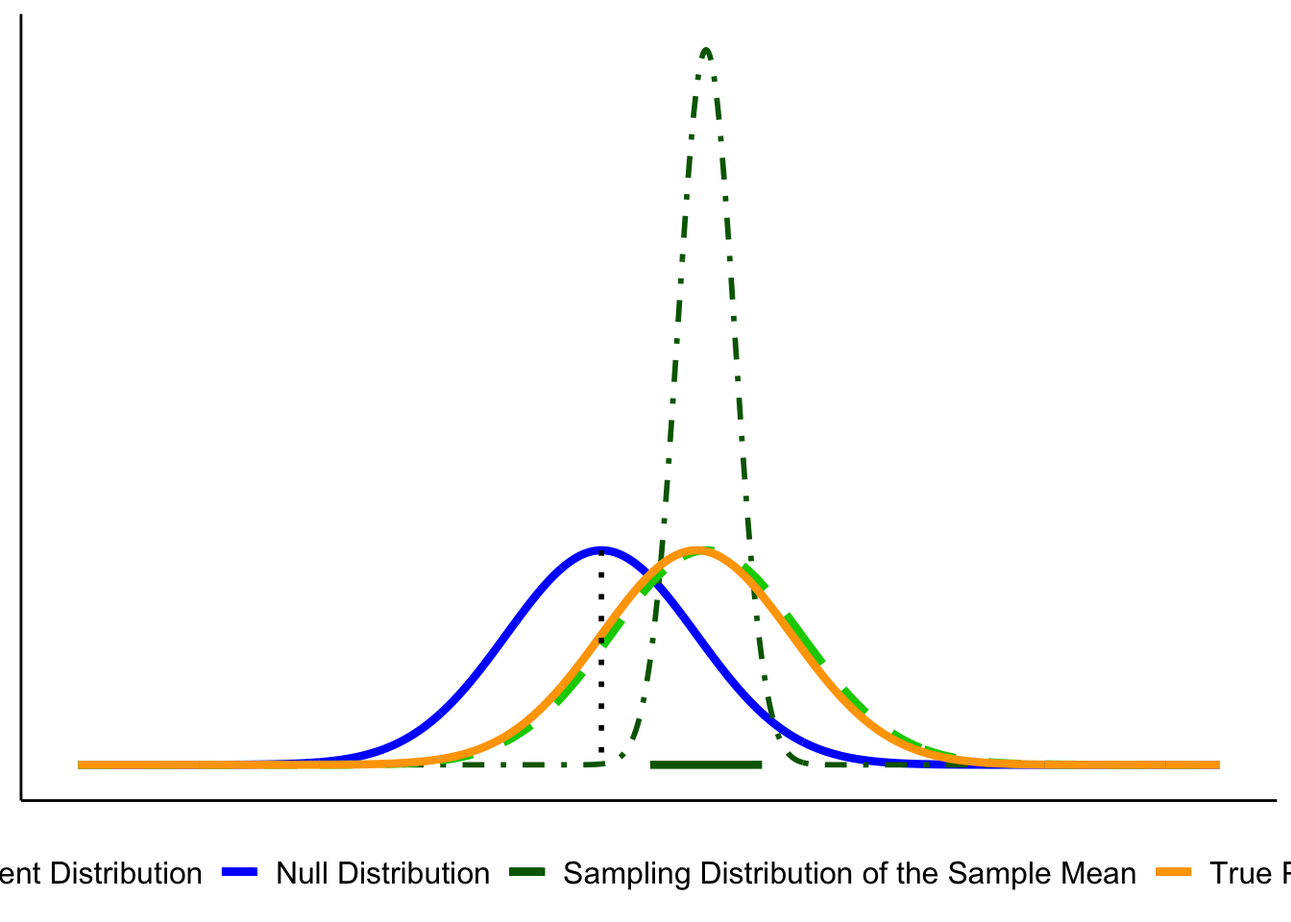
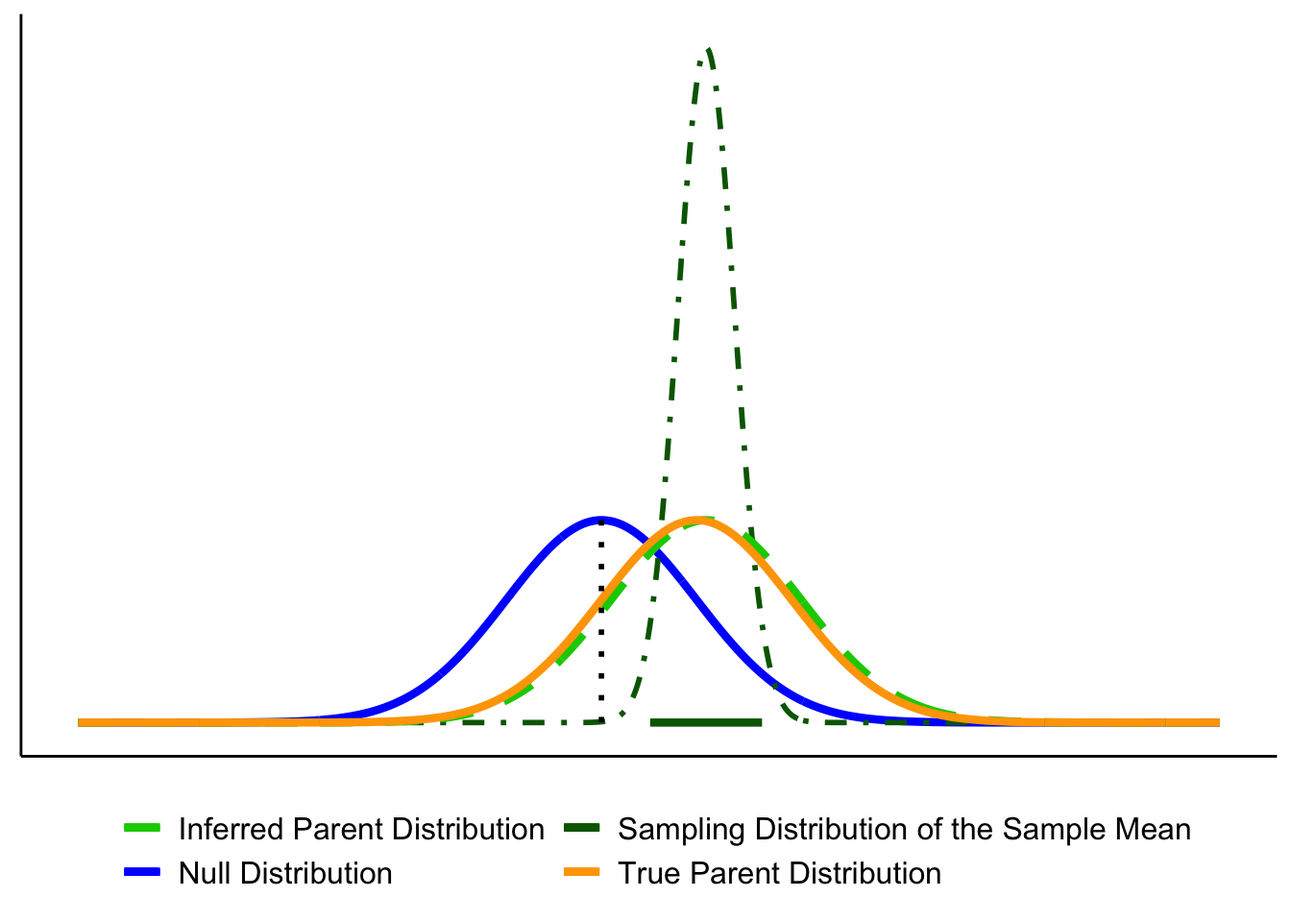
Non-error cases now updated

diff --git a/docs/05.5-Hypothesis_Testing.html b/docs/05.5-Hypothesis_Testing.html
@@ -286,7 +286,7 @@ ul.task-list li input[type="checkbox"] {
     <div>
     <div class="quarto-title-meta-heading">Modified</div>
     <div class="quarto-title-meta-contents">
-      <p class="date-modified">October 6, 2023</p>
+      <p class="date-modified">October 9, 2023</p>
     </div>
   </div>
     
@@ -466,7 +466,7 @@ ul.task-list li input[type="checkbox"] {
 </div>
 <p>In a "perfect" world in which the null hypothesis is true, the sample's parent distribution (solid, orange) is exactly the same parent distribution described by the null hypothesis (solid, blue).</p>
 <hr>
-<div class="cell" data-hash="cache/fig-5-5.perfectly_representative_sample_d28861a8295dd788d010227b9679ff42">
+<div class="cell" data-hash="cache/fig-5-5.perfectly_representative_sample_87e749bb8d701ea8d0d837668157e4f5">
 <div class="cell-output-display">
 <div id="fig-5-5.perfectly_representative_sample" class="quarto-figure quarto-figure-center anchored">
 <figure class="figure">
@@ -513,25 +513,71 @@ ul.task-list li input[type="checkbox"] {
 </div>
 </div>
 </div>
-<p>In another imperfect and inconvenient world, the sample (dashed lines) really is drawn from the alternative distribution (the sample’s true parent distribution; orange), but is unrepresentative of its parent and similar to the null (solid darkgreen line). The confidence interval (in the 2-tailed case) of the sample “catches” the mean of the null hypothesis although it is far from the mean of the true parent of the sample. A hypothesis test will find no significant difference between the sample mean and the mean of the null hypothesis. <strong>This is a type II error.</strong></p>
+<p>In another imperfect and inconvenient world, the sample (dashed dark green lines) really is drawn from the alternative distribution (the sample’s true parent distribution; orange), but is unrepresentative of its parent and similar to the null (solid blue line). The confidence interval (in the 2-tailed case) of the sample “catches” the mean of the null hypothesis although it is far from the mean of the true parent of the sample. A hypothesis test will find no significant difference between the sample mean and the mean of the null hypothesis. <strong>This is a type II error.</strong></p>
 <hr>
 </section>
 </section>
 <section id="graphical-review-of-test-outcomes-that-are-not-in-error" class="level2" data-number="6.3">
 <h2 data-number="6.3" class="anchored" data-anchor-id="graphical-review-of-test-outcomes-that-are-not-in-error"><span class="header-section-number">6.3</span> Graphical Review of Test Outcomes that are Not in Error</h2>
 <p>As you review hypothesis testing, it’s essential to remember that we don’t <em>accept</em> the null hypothesis. The possibility of a Type I error means our conclusion might be flawed. Instead of accepting the null hypothesis, we <em>fail to reject</em> H<sub>0</sub>. The scarcity of data with small sample sizes can lead to significant differences between the sample mean and the null mean (μ_0). While it’s tempting to gather more data to be more certain, in the meantime, the best we can do is fail to reject H<sub>0</sub>.</p>
-<p>In the figures below, darkgreen lines represent the null parent distribution (defined by the null mean and the sample’s standard deviation). The gray lines denote the apparent parent distribution of our sample:</p>
+<p>In the figures below, blue lines represent the null parent distribution (defined by the null mean and the sample’s standard deviation). The green solid lines denote the apparent parent distribution of our sample:</p>
 <ul>
-<li><p><strong>Solid gray line</strong>: Represents the distribution described by our sample mean and standard deviation.</p></li>
-<li><p><strong>Dashed gray line</strong>: Shows the sampling distribution of the sample mean, described by our sample mean and the standard error (SE).</p></li>
+<li><p><strong>Solid green line</strong>: Represents the distribution described by our sample mean and standard deviation.</p></li>
+<li><p>*<strong>Dashed dark green line</strong>: Shows the sampling distribution of the sample mean, described by our sample mean and the standard error (SE).</p></li>
 </ul>
 <section id="graphical-descriptions" class="level3" data-number="6.3.1">
 <h3 data-number="6.3.1" class="anchored" data-anchor-id="graphical-descriptions"><span class="header-section-number">6.3.1</span> Graphical Descriptions:</h3>
+<div class="cell" data-hash="cache/fig-5-5.fail_to_reject_1_7b3511bddfcfa8d4042300ec772a3380">
+<div class="cell-output-display">
+<div id="fig-5-5.fail_to_reject_1" class="quarto-figure quarto-figure-center anchored">
+<figure class="figure">
+<p><img src="05.5-Hypothesis_Testing_files/figure-html/fig-5-5.fail_to_reject_1-1.png" class="img-fluid figure-img" style="width:100.0%"></p>
+<figcaption class="figure-caption">Figure&nbsp;6.9: Ha:μ &lt; X</figcaption>
+</figure>
+</div>
+</div>
+</div>
 <ol type="1">
-<li><p><strong>Fail to Reject the Null Hypothesis - Sample Mean Supports the Null Hypothesis</strong>: The means have a significant distance between them but not in our direction of interest. For a one-tailed test, only data on one side of the rejection region can support the null hypothesis. Question to ponder: If we gather more data and obtain the same sample mean, could our conclusion change?</p></li>
-<li><p><strong>Fail to Reject the Null Hypothesis</strong>: The sample mean leans towards the alternate hypothesis, residing on the suitable side of the rejection region. However, the sample size could be too small. The sample mean’s proximity, just about 1SE from the null mean, makes it too close to be statistically significant. Hypothetical situation: With more data and the same sample mean, could our conclusion differ?</p></li>
-<li><p><strong>Reject the Null Hypothesis</strong>: The sample mean is on the right side of the rejection region. It’s significantly distant from the null mean, over 3 SE, which is typically considered significant for most standard values of α.</p></li>
-<li><p><strong>Reject the Null Hypothesis (Two-Tailed Test)</strong>: This situation mirrors the previous example, but the test is two-tailed.</p></li>
+<li><strong>Fail to Reject the Null Hypothesis - Sample Mean Supports the Null Hypothesis</strong>: The means have a significant distance between them but <strong>not in our direction of interest</strong>. For a one-tailed test, only data on one side of the rejection region can support the null hypothesis. Question to ponder: If we gather more data and obtain the same sample mean, could our conclusion change?</li>
+</ol>
+<div class="cell" data-hash="cache/fig-5-5.fail_to_reject_2_9a014aafabcc79bc24104a7ee2b8086c">
+<div class="cell-output-display">
+<div id="fig-5-5.fail_to_reject_2" class="quarto-figure quarto-figure-center anchored">
+<figure class="figure">
+<p><img src="05.5-Hypothesis_Testing_files/figure-html/fig-5-5.fail_to_reject_2-1.png" class="img-fluid figure-img" style="width:100.0%"></p>
+<figcaption class="figure-caption">Figure&nbsp;6.10: Ha:μ &lt; X</figcaption>
+</figure>
+</div>
+</div>
+</div>
+<ol start="2" type="1">
+<li><strong>Fail to Reject the Null Hypothesis</strong>: The sample mean leans towards the alternate hypothesis, residing on the suitable side of the rejection region. However, the sample size could be too small. The sample mean’s proximity, just about 1SE from the null mean, makes it too close to be statistically significant. Hypothetical situation: With more data and the same sample mean, could our conclusion differ?</li>
+</ol>
+<div class="cell" data-hash="cache/fig-5-5.reject_1_f147375c20a401d6ab4e27d13f84a48a">
+<div class="cell-output-display">
+<div id="fig-5-5.reject_1" class="quarto-figure quarto-figure-center anchored">
+<figure class="figure">
+<p><img src="05.5-Hypothesis_Testing_files/figure-html/fig-5-5.reject_1-1.png" class="img-fluid figure-img" style="width:100.0%"></p>
+<figcaption class="figure-caption">Figure&nbsp;6.11: Ha:μ &lt; X</figcaption>
+</figure>
+</div>
+</div>
+</div>
+<ol start="3" type="1">
+<li><strong>Reject the Null Hypothesis</strong>: The sample mean is on the right side of the rejection region. It’s significantly distant from the null mean, over 3 SE, which is typically considered significant for most standard values of α.</li>
+</ol>
+<div class="cell" data-hash="cache/fig-5-5.reject_2_two_tailed_092a618d8628cbca5b2f6e2001f0dcd8">
+<div class="cell-output-display">
+<div id="fig-5-5.reject_2_two_tailed" class="quarto-figure quarto-figure-center anchored">
+<figure class="figure">
+<p><img src="05.5-Hypothesis_Testing_files/figure-html/fig-5-5.reject_2_two_tailed-1.png" class="img-fluid figure-img" style="width:100.0%"></p>
+<figcaption class="figure-caption">Figure&nbsp;6.12: Ha:μ ≠ X</figcaption>
+</figure>
+</div>
+</div>
+</div>
+<ol start="4" type="1">
+<li><strong>Reject the Null Hypothesis (Two-Tailed Test)</strong>: Reject the null hypothesis for the same reasons as the previous example. This case is two-tailed, but nothing else has changed.</li>
 </ol>
 <hr>
 </section>
@@ -567,13 +613,13 @@ ul.task-list li input[type="checkbox"] {
 </section>
 <section id="cohens-d" class="level3" data-number="6.5.3">
 <h3 data-number="6.5.3" class="anchored" data-anchor-id="cohens-d"><span class="header-section-number">6.5.3</span> Cohen’s d</h3>
-<p>Let’s look a few distributions to firm up some ideas about effect-size. <a href="#fig-5.5effectdists">Figure&nbsp;<span>6.9</span></a> has four panels. The first panel (0) represents the null distribution of no differences. This is the idea that your manipulation (A vs.&nbsp;B) doesn’t do anything at all, as a result when you measure scores in conditions A and B, you are effectively sampling scores from the very same overall distribution. The panel shows the distribution as green for condition B, but the red one for condition A is identical and drawn underneath (it’s invisible). There is 0 difference between these distributions, so it represent a null effect.</p>
+<p>Let’s look a few distributions to firm up some ideas about effect-size. <a href="#fig-5.5effectdists">Figure&nbsp;<span>6.13</span></a> has four panels. The first panel (0) represents the null distribution of no differences. This is the idea that your manipulation (A vs.&nbsp;B) doesn’t do anything at all, as a result when you measure scores in conditions A and B, you are effectively sampling scores from the very same overall distribution. The panel shows the distribution as green for condition B, but the red one for condition A is identical and drawn underneath (it’s invisible). There is 0 difference between these distributions, so it represent a null effect.</p>
 <div class="cell" data-hash="cache/fig-5.5effectdists_c9b7a83c71b734326d46abf2c3867984">
 <div class="cell-output-display">
 <div id="fig-5.5effectdists" class="quarto-figure quarto-figure-center anchored">
 <figure class="figure">
 <p><img src="05.5-Hypothesis_Testing_files/figure-html/fig-5.5effectdists-1.png" class="img-fluid figure-img" style="width:100.0%"></p>
-<figcaption class="figure-caption">Figure&nbsp;6.9: Each panel shows hypothetical distributions for two conditions. As the effect-size increases, the difference between the distributions become larger.</figcaption>
+<figcaption class="figure-caption">Figure&nbsp;6.13: Each panel shows hypothetical distributions for two conditions. As the effect-size increases, the difference between the distributions become larger.</figcaption>
 </figure>
 </div>
 </div>
@@ -585,7 +631,7 @@ ul.task-list li input[type="checkbox"] {
 <div id="fig-5.5effectdistsB" class="quarto-figure quarto-figure-center anchored">
 <figure class="figure">
 <p><img src="05.5-Hypothesis_Testing_files/figure-html/fig-5.5effectdistsB-1.png" class="img-fluid figure-img" style="width:100.0%"></p>
-<figcaption class="figure-caption">Figure&nbsp;6.10: Each panel shows hypothetical distributions for two conditions. As the effect-size increases, the difference between the distributions become larger.</figcaption>
+<figcaption class="figure-caption">Figure&nbsp;6.14: Each panel shows hypothetical distributions for two conditions. As the effect-size increases, the difference between the distributions become larger.</figcaption>
 </figure>
 </div>
 </div>
@@ -631,23 +677,23 @@ ul.task-list li input[type="checkbox"] {
 </ol>
 <p>To see this in practice let’s do a simulation. We will do a t-test on a between-groups design 10 subjects in each group. Group A will be a control group with scores sampled from a normal distribution with mean of 10, and standard deviation of 5. Group B will be a treatment group, we will say the treatment has an effect-size of Cohen’s <span class="math inline">\(d\)</span> = .5, that’s a standard deviation shift of .5, so the scores with come from a normal distribution with mean =12.5 and standard deivation of 5. Remember 1 standard deviation here is 5, so half of a standard deviation is 2.5.</p>
 <p>The following R script runs this simulated experiment 1000 times. We set the alpha criterion to .05, this means we will reject the null whenever the <span class="math inline">\(p\)</span>-value is less than .05. With this specific design, how many times out of of 1000 do we reject the null, and accept the alternative hypothesis?</p>
-<div class="cell" data-hash="cache/unnamed-chunk-16_3d09cd857d5b7bbef6b6b2f6985bc85f">
-<pre><code>#&gt; [1] 157</code></pre>
+<div class="cell" data-hash="cache/unnamed-chunk-18_e02a975442135e82fb026553c488f0a2">
+<pre><code>#&gt; [1] 190</code></pre>
 </div>
-<p>The answer is that we reject the null, and accept the alternative 157 times out of 1000. In other words our experiment succesfully accepts the alternative hypothesis 15.7 percent of the time, this is known as the power of the study. Power is the probability that a design will succesfully detect an effect of a specific size.</p>
+<p>The answer is that we reject the null, and accept the alternative 190 times out of 1000. In other words our experiment succesfully accepts the alternative hypothesis 19 percent of the time, this is known as the power of the study. Power is the probability that a design will succesfully detect an effect of a specific size.</p>
 <p>Importantly, power is completely abstract idea that is completely determined by many assumptions including N, effect-size, and alpha. As a result, it is best not to think of power as a single number, but instead as a family of numbers.</p>
 <p>For example, power is different when we change N. If we increase N, our samples will more precisely estimate the true distributions that they came from. Increasing N reduces sampling error, and shrinks the range of differences that can be produced by chance. Lets’ increase our N in this simulation from 10 to 20 in each group and see what happens.</p>
-<div class="cell" data-hash="cache/unnamed-chunk-17_299094f71c8f056e7ffcdf0b088ebe64">
-<pre><code>#&gt; [1] 306</code></pre>
+<div class="cell" data-hash="cache/unnamed-chunk-19_4009788692fef6d6f3b405a19309a5c1">
+<pre><code>#&gt; [1] 337</code></pre>
 </div>
-<p>Now the number of significant experiments i 306 out of 1000, or a power of 30.6 percent. That’s roughly doubled from before. We have made the design more sensitive to the effect by increasing N.</p>
+<p>Now the number of significant experiments i 337 out of 1000, or a power of 33.7 percent. That’s roughly doubled from before. We have made the design more sensitive to the effect by increasing N.</p>
 <p>We can change the power of the design by changing the alpha-value, which tells us how much evidence we need to reject the null. For example, if we set the alpha criterion to 0.01, then we will be more conservative, only rejecting the null when chance can produce the observed difference 1% of the time. In our example, this will have the effect of reducing power. Let’s keep N at 20, but reduce the alpha to 0.01 and see what happens:</p>
-<div class="cell" data-hash="cache/unnamed-chunk-18_680d38d569ee49eedece227007d0b9c6">
-<pre><code>#&gt; [1] 148</code></pre>
+<div class="cell" data-hash="cache/unnamed-chunk-20_c3026badee06b9adb1aaba7a94d20b51">
+<pre><code>#&gt; [1] 137</code></pre>
 </div>
-<p>Now only 148 out of 1000 experiments are significant, that’s 14.8 power.</p>
+<p>Now only 137 out of 1000 experiments are significant, that’s 13.7 power.</p>
 <p>Finally, the power of the design depends on the actual size of the effect caused by the manipulation. In our example, we hypothesized that the effect caused a shift of .5 standard deviations. What if the effect causes a bigger shift? Say, a shift of 2 standard deviations. Let’s keep N= 20, and alpha &lt; .01, but change the effect-size to two standard deviations. When the effect in the real-world is bigger, it should be easier to measure, so our power will increase.</p>
-<div class="cell" data-hash="cache/unnamed-chunk-19_25005706eb8e3f1b314cb403d74f6e6d">
+<div class="cell" data-hash="cache/unnamed-chunk-21_a03c5b03e7dd4529d0878671f8cb3de6">
 <pre><code>#&gt; [1] 1000</code></pre>
 </div>
 <p>Neat, if the effect-size is actually huge (2 standard deviation shift), then we have power 100 percent to detect the true effect.</p>
@@ -655,25 +701,25 @@ ul.task-list li input[type="checkbox"] {
 <section id="power-curves" class="level3" data-number="6.6.3">
 <h3 data-number="6.6.3" class="anchored" data-anchor-id="power-curves"><span class="header-section-number">6.6.3</span> Power curves</h3>
 <p>We mentioned that it is best to think of power as a family of numbers, rather than as a single number. To elaborate on this consider the power curve below. This is the power curve for a specific design: a between groups experiments with two levels, that uses an independent samples t-test to test whether an observed difference is due to chance. Critically, N is set to 10 in each group, and alpha is set to .05</p>
-<p>In <a href="#fig-5.5powercurve">Figure&nbsp;<span>6.11</span></a> power (as a proportion, not a percentage) is plotted on the y-axis, and effect-size (Cohen’s d) in standard deviation units is plotted on the x-axis.</p>
+<p>In <a href="#fig-5.5powercurve">Figure&nbsp;<span>6.15</span></a> power (as a proportion, not a percentage) is plotted on the y-axis, and effect-size (Cohen’s d) in standard deviation units is plotted on the x-axis.</p>
 <div class="cell" data-hash="cache/fig-5.5powercurve_e587407de302dc49b39e0d0c460e31b4">
 <div class="cell-output-display">
 <div id="fig-5.5powercurve" class="quarto-figure quarto-figure-center anchored">
 <figure class="figure">
 <p><img src="05.5-Hypothesis_Testing_files/figure-html/fig-5.5powercurve-1.png" class="img-fluid figure-img" style="width:100.0%"></p>
-<figcaption class="figure-caption">Figure&nbsp;6.11: This figure shows power as a function of effect-size (Cohen’s d) for a between-subjects independent samples t-test, with N=10, and alpha criterion 0.05.</figcaption>
+<figcaption class="figure-caption">Figure&nbsp;6.15: This figure shows power as a function of effect-size (Cohen’s d) for a between-subjects independent samples t-test, with N=10, and alpha criterion 0.05.</figcaption>
 </figure>
 </div>
 </div>
 </div>
 <p>A power curve like this one is very helpful to understand the sensitivity of a particular design. For example, we can see that a between subjects design with N=10 in both groups, will detect an effect of d=.5 (half a standard deviation shift) about 20% of the time, will detect an effect of d=.8 about 50% of the time, and will detect an effect of d=2 about 100% of the time. All of the percentages reflect the power of the design, which is the percentage of times the design would be expected to find a <span class="math inline">\(p\)</span> &lt; 0.05.</p>
-<p>Let’s imagine that based on prior research, the effect you are interested in measuring is fairly small, d=0.2. If you want to run an experiment that will detect an effect of this size a large percentage of the time, how many subjects do you need to have in each group? We know from the above graph that with N=10, power is very low to detect an effect of d=0.2. Let’s make <a href="#fig-5.5powercurveN">Figure&nbsp;<span>6.12</span></a> and vary the number of subjects rather than the size of the effect.</p>
+<p>Let’s imagine that based on prior research, the effect you are interested in measuring is fairly small, d=0.2. If you want to run an experiment that will detect an effect of this size a large percentage of the time, how many subjects do you need to have in each group? We know from the above graph that with N=10, power is very low to detect an effect of d=0.2. Let’s make <a href="#fig-5.5powercurveN">Figure&nbsp;<span>6.16</span></a> and vary the number of subjects rather than the size of the effect.</p>
 <div class="cell" data-hash="cache/fig-5.5powercurveN_707da7688626c6251d51fade48b5e5e7">
 <div class="cell-output-display">
 <div id="fig-5.5powercurveN" class="quarto-figure quarto-figure-center anchored">
 <figure class="figure">
 <p><img src="05.5-Hypothesis_Testing_files/figure-html/fig-5.5powercurveN-1.png" class="img-fluid figure-img" style="width:100.0%"></p>
-<figcaption class="figure-caption">Figure&nbsp;6.12: This figure shows power as a function of N for a between-subjects independent samples t-test, with d=0.2, and alpha criterion 0.05.</figcaption>
+<figcaption class="figure-caption">Figure&nbsp;6.16: This figure shows power as a function of N for a between-subjects independent samples t-test, with d=0.2, and alpha criterion 0.05.</figcaption>
 </figure>
 </div>
 </div>
@@ -717,24 +763,24 @@ ul.task-list li input[type="checkbox"] {
 <h3 data-number="6.8.4" class="anchored" data-anchor-id="type-i-errors-are-convincing-when-n-is-small"><span class="header-section-number">6.8.4</span> Type I errors are convincing when N is small</h3>
 <p>So what is this pernicious relationship between Type I errors and effect-size? Mainly, this relationship is pernicious for small N studies. For example, the following figure illustrates the results of 1000s of simulated experiments, all assuming the null distribution. In other words, for all of these simulations there is no true effect, as the numbers are all sampled from an identical distribution (normal distribution with mean =0, and standard deviation =1). The true effect-size is 0 in all cases.</p>
 <p>We know that under the null, researchers will find p values that are less 5% about 5% of the time, remember that is the definition. So, if a researcher happened to be in this situation (where there manipulation did absolutely nothing), they would make a type I error 5% of the time, or if they conducted 100 experiments, they would expect to find a significant result for 5 of them.</p>
-<p><a href="#fig-5.5effectsizeType1">Figure&nbsp;<span>6.13</span></a> reports the findings from only the type I errors, where the simulated study did produce p &lt; 0.05. For each type I error, we calculated the exact p-value, as well as the effect-size (cohen’s D) (mean difference divided by standard deviation). We already know that the true effect-size is zero, however take a look at this graph, and pay close attention to the smaller sample-sizes.</p>
+<p><a href="#fig-5.5effectsizeType1">Figure&nbsp;<span>6.17</span></a> reports the findings from only the type I errors, where the simulated study did produce p &lt; 0.05. For each type I error, we calculated the exact p-value, as well as the effect-size (cohen’s D) (mean difference divided by standard deviation). We already know that the true effect-size is zero, however take a look at this graph, and pay close attention to the smaller sample-sizes.</p>
 <div class="cell" data-hash="cache/fig-5.5effectsizeType1_447f21f0dd11f71e88816da50cd7f58d">
 <div class="cell-output-display">
 <div id="fig-5.5effectsizeType1" class="quarto-figure quarto-figure-center anchored">
 <figure class="figure">
 <p><img src="05.5-Hypothesis_Testing_files/figure-html/fig-5.5effectsizeType1-1.png" class="img-fluid figure-img" style="width:100.0%"></p>
-<figcaption class="figure-caption">Figure&nbsp;6.13: Effect size as a function of p-values for type 1 Errors under the null, for a paired samples t-test.</figcaption>
+<figcaption class="figure-caption">Figure&nbsp;6.17: Effect size as a function of p-values for type 1 Errors under the null, for a paired samples t-test.</figcaption>
 </figure>
 </div>
 </div>
 </div>
-<p>For example, look at the red dots, when sample size is 10. Here we see that the effect-sizes are quite large. When p is near 0.05 the effect-size is around .8, and it goes up and up as when p gets smaller and smaller. What does this mean? It means that when you get unlucky with a small N design, and your manipulation does not work, but you by chance find a “significant” effect, the effect-size measurement will show you a “big effect”. This is the pernicious aspect. When you make a type I error for small N, your data will make you think there is no way it could be a type I error because the effect is just so big!. Notice that when N is very large, like 1000, the measure of effect-size approaches 0 (which is the true effect-size in the simulation shown in <a href="#fig-5.5cohensD">Figure&nbsp;<span>6.14</span></a>).</p>
+<p>For example, look at the red dots, when sample size is 10. Here we see that the effect-sizes are quite large. When p is near 0.05 the effect-size is around .8, and it goes up and up as when p gets smaller and smaller. What does this mean? It means that when you get unlucky with a small N design, and your manipulation does not work, but you by chance find a “significant” effect, the effect-size measurement will show you a “big effect”. This is the pernicious aspect. When you make a type I error for small N, your data will make you think there is no way it could be a type I error because the effect is just so big!. Notice that when N is very large, like 1000, the measure of effect-size approaches 0 (which is the true effect-size in the simulation shown in <a href="#fig-5.5cohensD">Figure&nbsp;<span>6.18</span></a>).</p>
 <div class="cell" data-hash="cache/fig-5.5cohensD_520f141f40a3335b9d9b0513c2913d32">
 <div class="cell-output-display">
 <div id="fig-5.5cohensD" class="quarto-figure quarto-figure-center anchored">
 <figure class="figure">
 <p><img src="05.5-Hypothesis_Testing_files/figure-html/fig-5.5cohensD-1.png" class="img-fluid figure-img" style="width:100.0%"></p>
-<figcaption class="figure-caption">Figure&nbsp;6.14: Each panel shows a histogram of a different sampling statistic.</figcaption>
+<figcaption class="figure-caption">Figure&nbsp;6.18: Each panel shows a histogram of a different sampling statistic.</figcaption>
 </figure>
 </div>
 </div>
